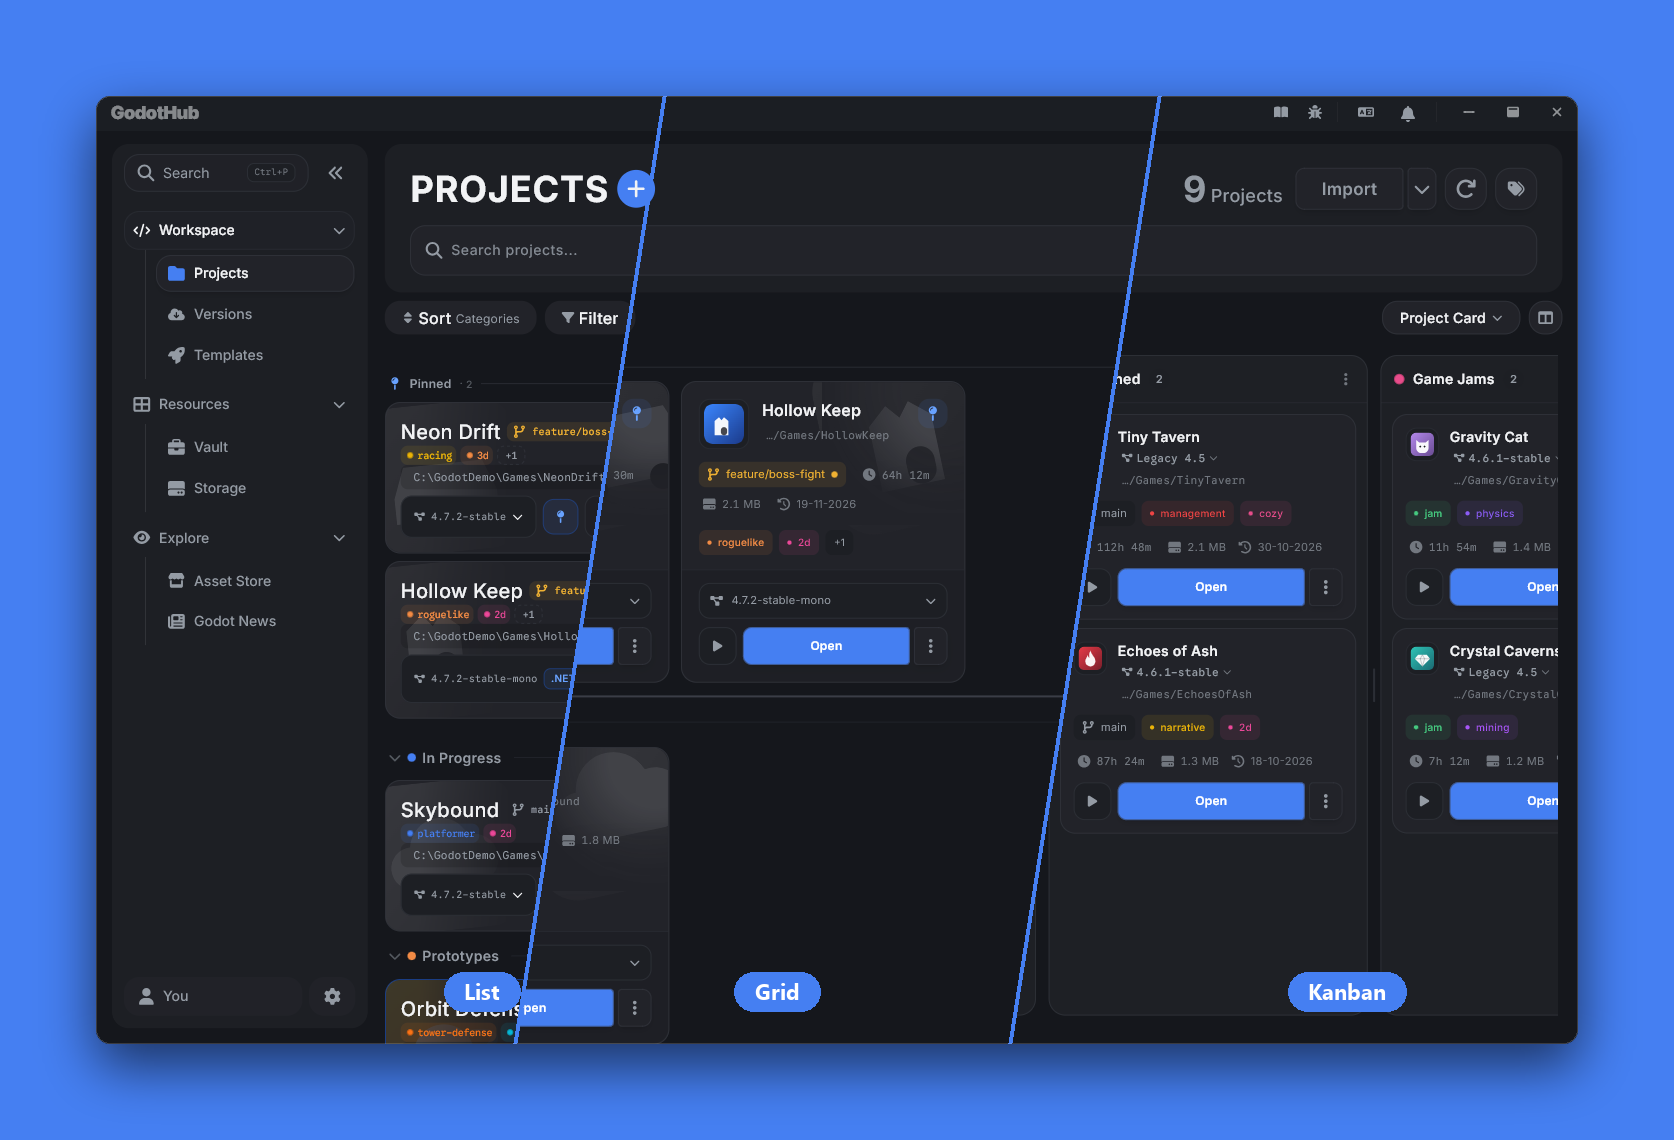
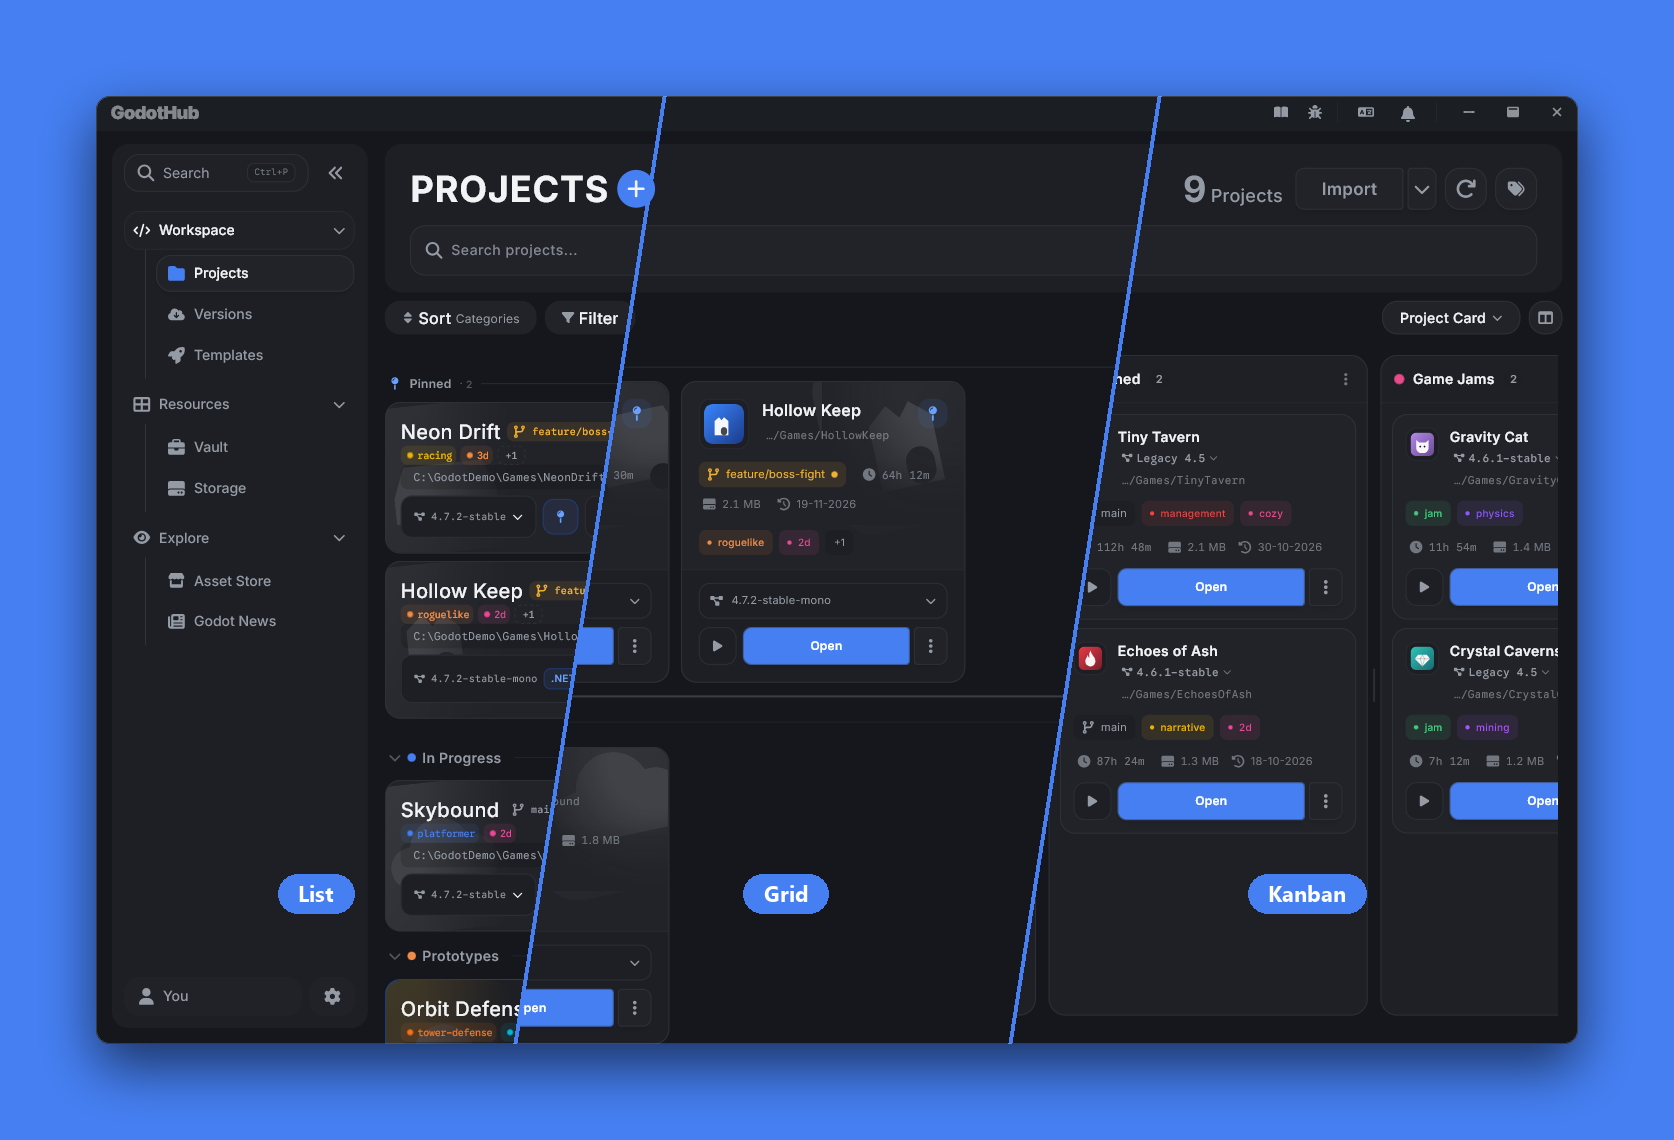
update readme

diff --git a/dev/tool/screenshots/screenshots.py b/dev/tool/screenshots/screenshots.py
@@ -315,12 +315,13 @@ def _blend(paths):
     for c in cuts: draw.line([(c + SLANT / 2, 0), (c - SLANT / 2, h)], fill=ACCENT + (255,), width=4)
     try: font = ImageFont.truetype("segoeuib.ttf", 22)  # Windows UI font, bold
     except OSError: font = ImageFont.load_default()
-    for i, (_, label) in enumerate(paths):  # name each slice with a pill near the bottom
-        cx = (max(edges[i], w * 0.27) + edges[i + 1]) / 2 - SLANT * 0.4  # content area only; the lines lean left toward the bottom
-        cx = min(max(cx, 90), w - 90)
+    ly = h * 0.84  # label height; each pill is centred between the two dividing lines at that height
+    lean = lambda x: x + SLANT / 2 - SLANT * ly / h
+    for i, (_, label) in enumerate(paths):
+        cx = (max(lean(edges[i]), 0) + min(lean(edges[i + 1]), w)) / 2
         box = draw.textbbox((0, 0), label, font=font)
         tw, th = box[2] - box[0], box[3] - box[1]
-        x0, y0, x1, y1 = cx - tw / 2 - 20, h - 74, cx + tw / 2 + 20, h - 74 + th + 22
+        x0, y0, x1, y1 = cx - tw / 2 - 20, ly - (th + 22) / 2, cx + tw / 2 + 20, ly + (th + 22) / 2
         draw.rounded_rectangle((x0, y0, x1, y1), (y1 - y0) / 2, fill=ACCENT + (255,))
         draw.text((cx - tw / 2 - box[0], y0 + 11 - box[1]), label, font=font, fill=(255, 255, 255, 255))
     return out

diff --git a/README.md b/README.md
@@ -105,15 +105,40 @@
 
 <a id="install"></a>
 
+### Windows
+
+**Winget**
 ```powershell
 winget install Ryko.GodotHub
 ```
 
+**Scoop**
 ```powershell
 scoop bucket add extras; scoop install godothub
 ```
 
-Or grab a build from the **[latest release](https://github.com/RykoTheDev/GodotHub/releases/latest)**:
+**PowerShell**
+```powershell
+irm https://ryko.is-a.dev/godothub/install.ps1 | iex
+```
+
+### Linux / MacOS
+
+**Shell**
+```bash
+curl -fsSL https://ryko.is-a.dev/godothub/install.sh | sh
+```
+
+### Linux Only
+
+**AppImage** via the [AppImage Package Manager](https://github.com/ivan-hc/AM)
+```bash
+am -i godothub
+```
+
+### Download
+
+Prefer an installer? Grab one from the **[latest release](https://github.com/RykoTheDev/GodotHub/releases/latest)**:
 
 | | Download |
 |---|---|
